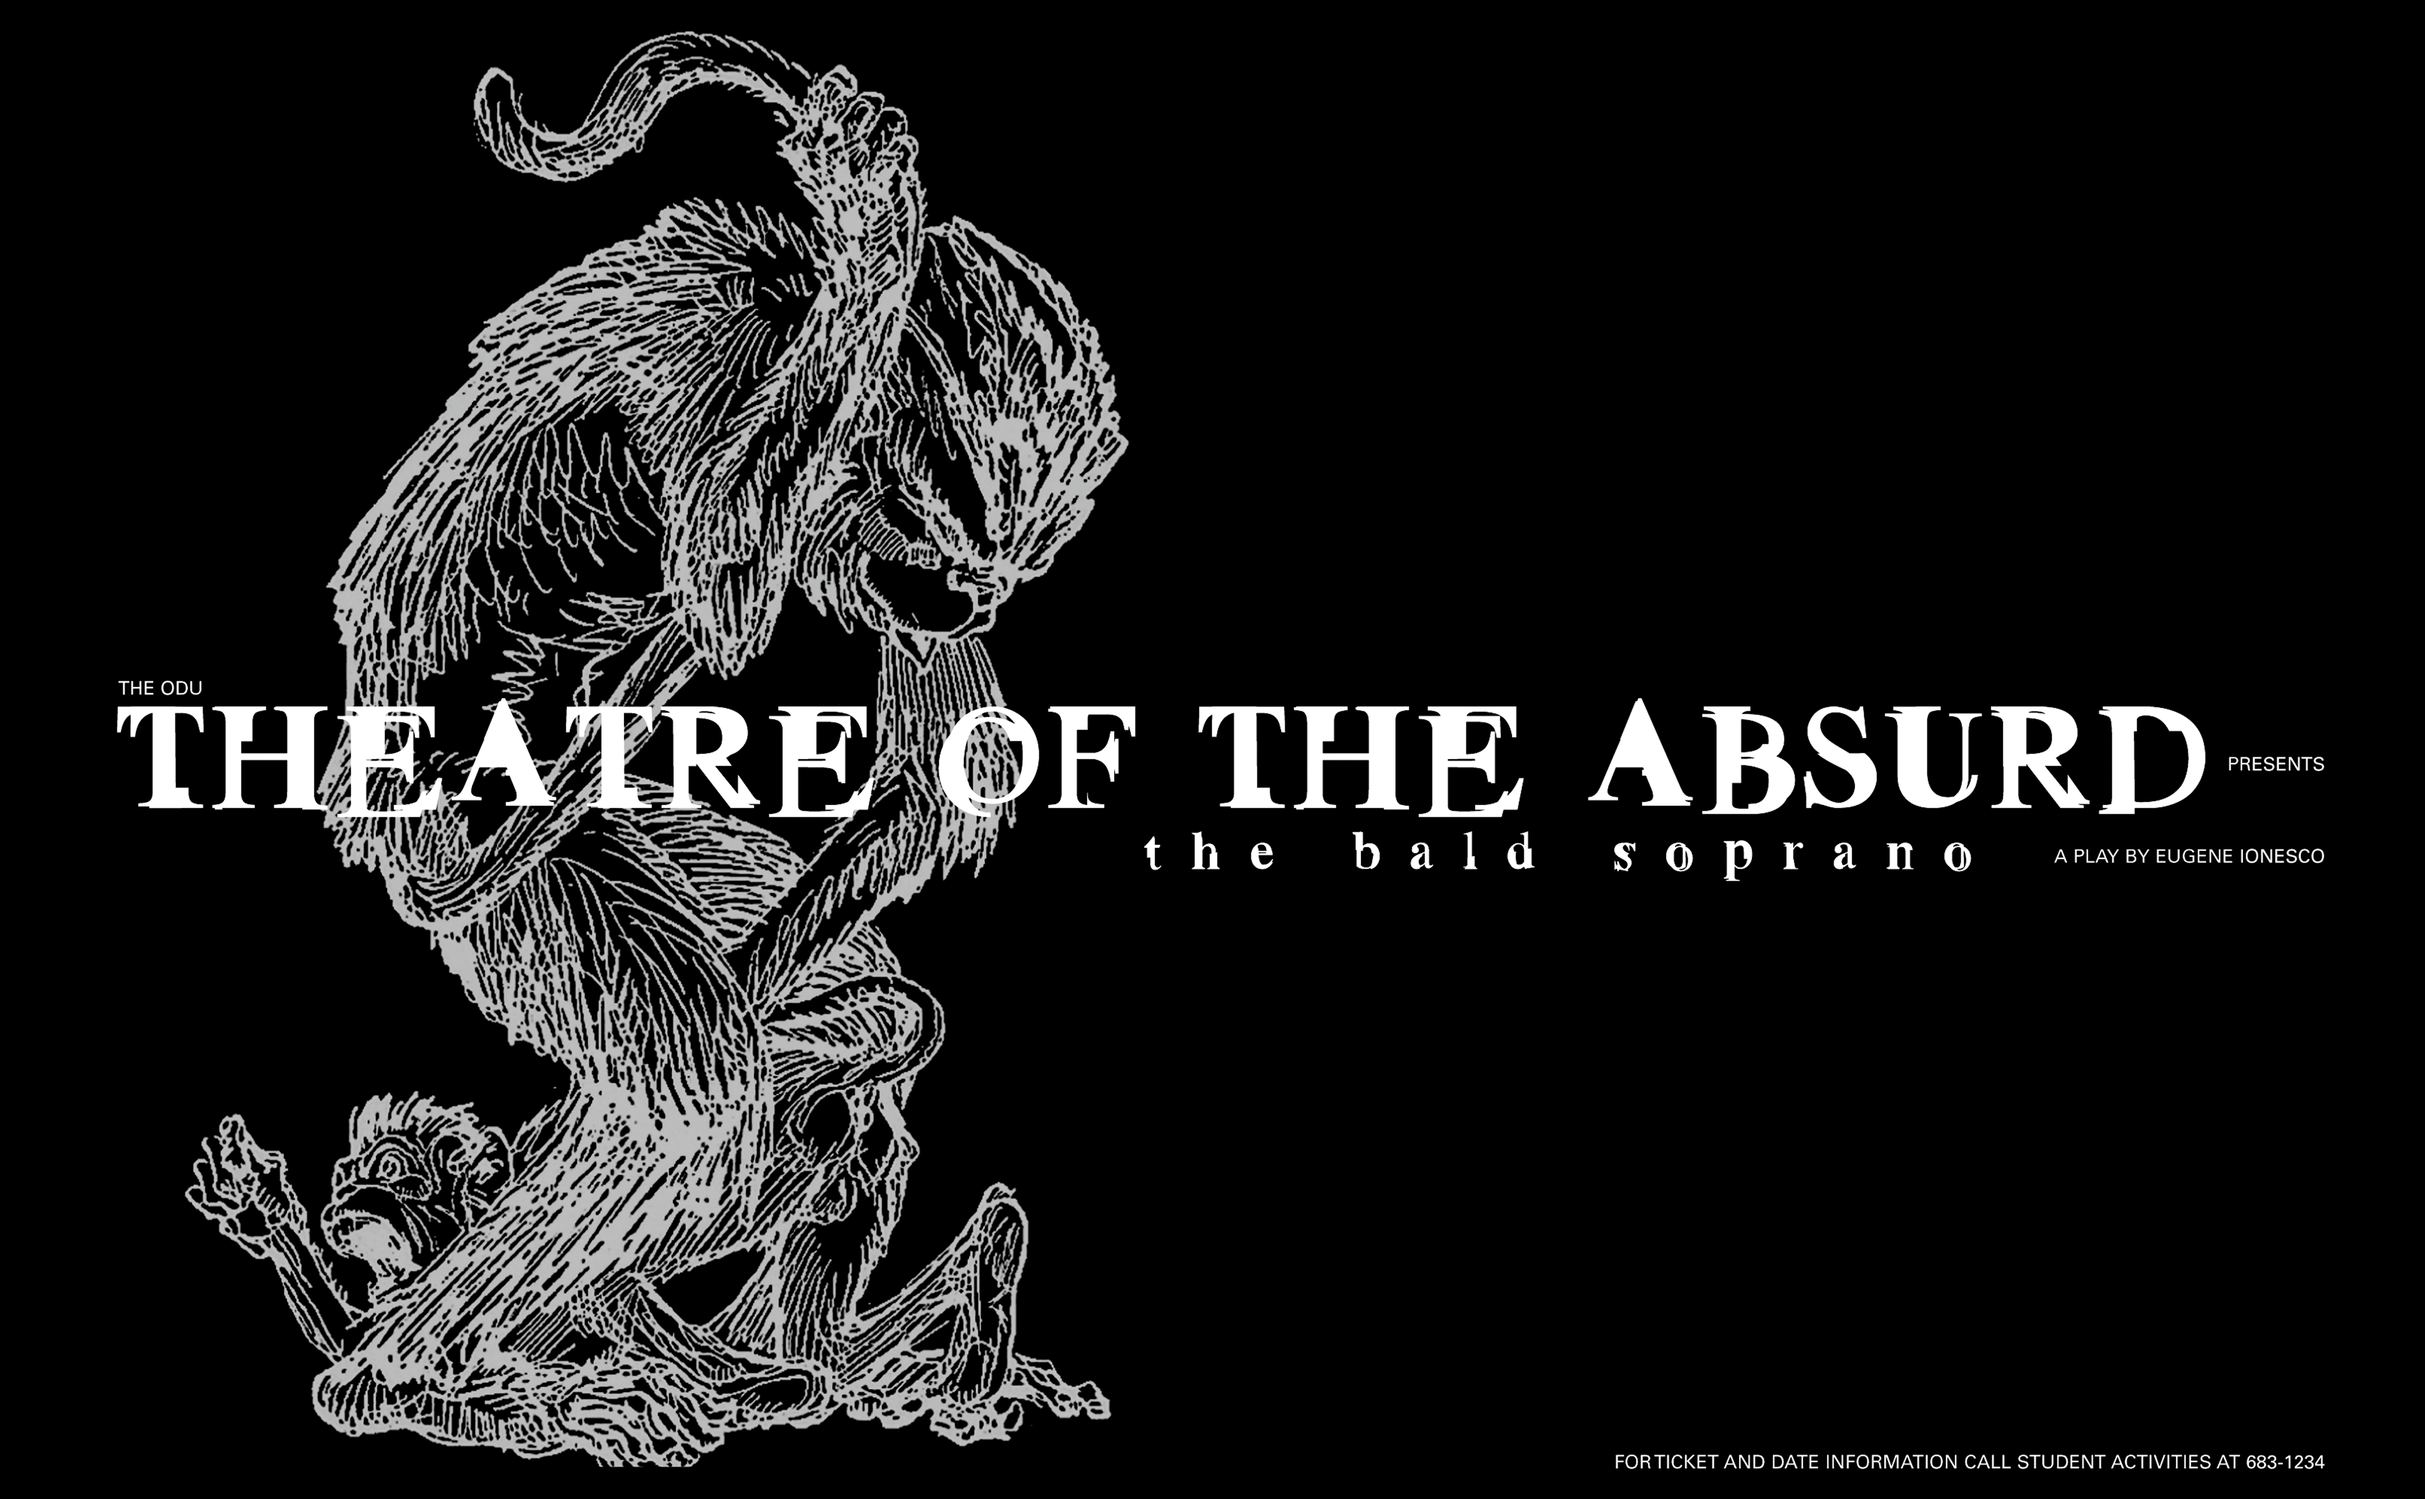
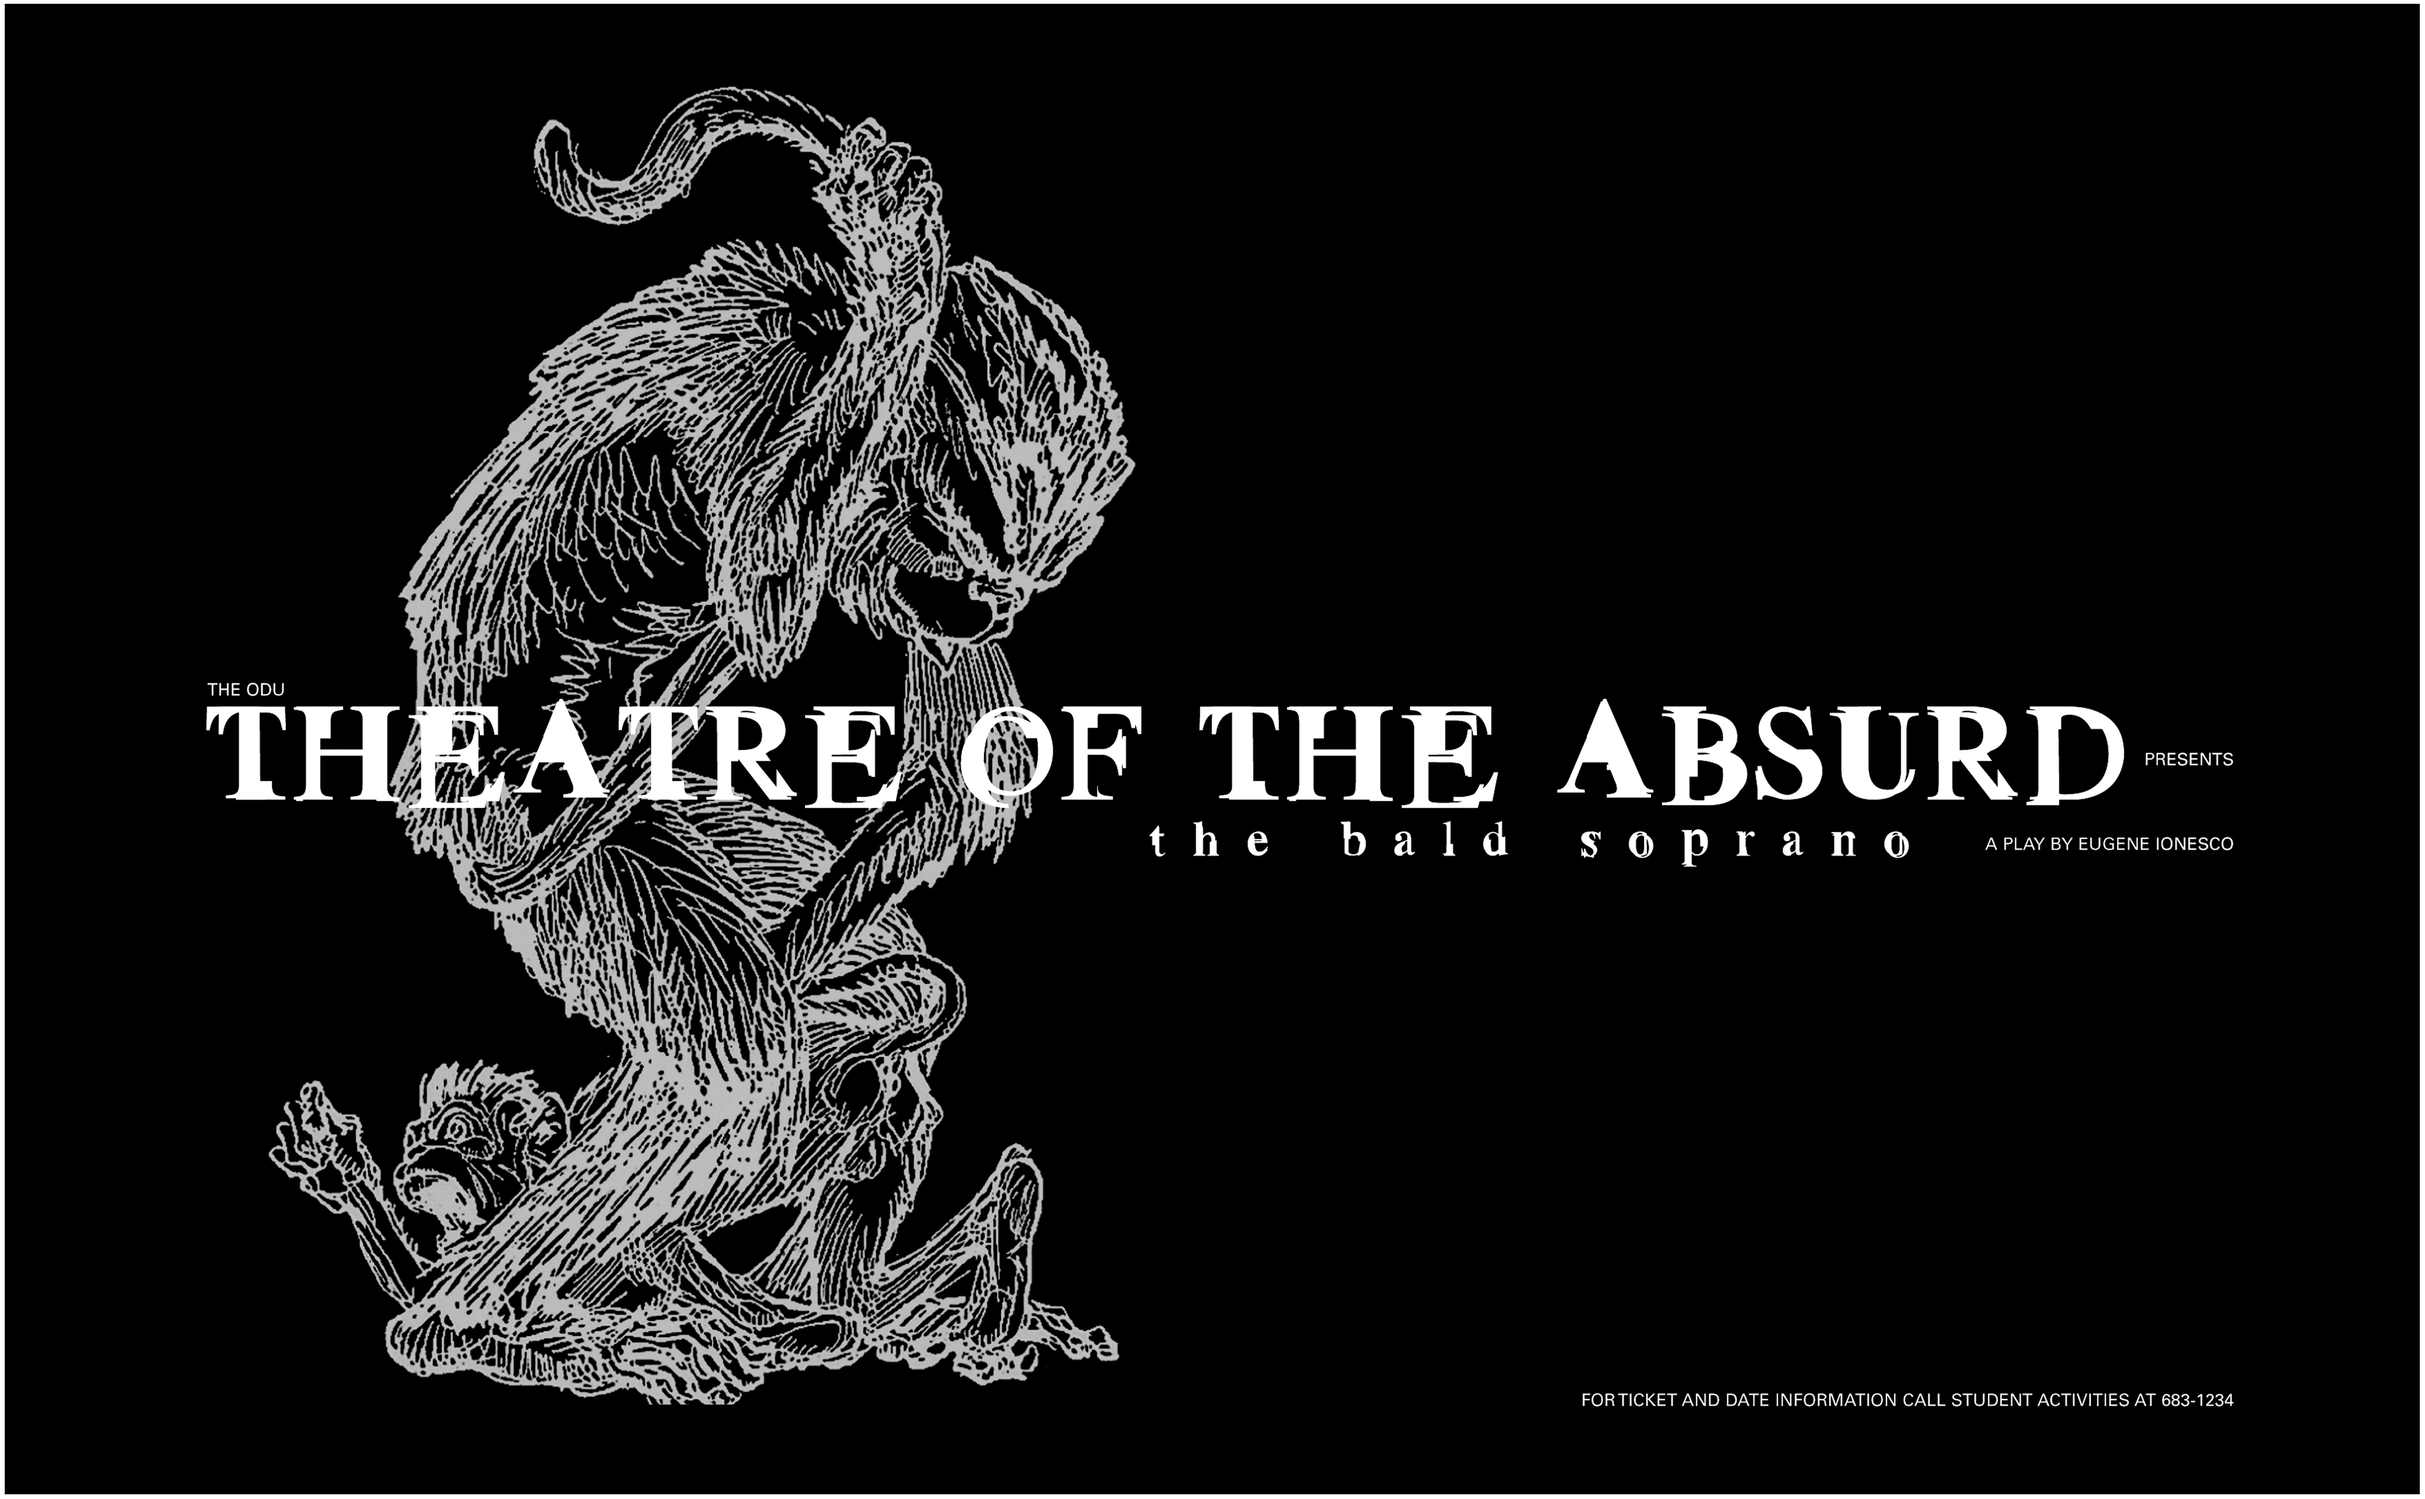
Update Images

diff --git a/index.html b/index.html
@@ -7,50 +7,255 @@
 <!-- The above 3 meta tags *must* come first in the head; any other head content must come *after* these tags -->
 <title>Holden Hardcastle</title>
 
+<script>!function(a,b,c,d,e){function g(a,c,d,e){var f=b.getElementsByTagName("script")[0];a.src=e,a.id=c,a.setAttribute("class",d),f.parentNode.insertBefore(a,f)}a.Mobify={points:[+new Date]};var f=/((; )|#|&|^)mobify=(d)/.exec(location.hash+"; "+b.cookie);if(f&&f[3]){if(!+f[3])return}else if(!c())return;b.write('<plaintext style="display:none">'),setTimeout(function(){var c=a.Mobify=a.Mobify||{};c.capturing=!0;var f=b.createElement("script"),h="mobify",i=function(){var c=new Date;c.setTime(c.getTime()+3e5),b.cookie="mobify=0; expires="+c.toGMTString()+"; path=/",a.location=a.location.href};f.onload=function(){if(e)if("string"==typeof e){var c=b.createElement("script");c.onerror=i,g(c,"main-executable",h,mainUrl)}else a.Mobify.mainExecutable=e.toString(),e()},f.onerror=i,g(f,"mobify-js",h,d)})}(window,document,function(){var a=/webkit|msies10|(firefox)[/s](d+)|(opera)[sS]*version[/s](d+)|3ds/i.exec(navigator.userAgent);return a?a[1]&&+a[2]<4?!1:a[3]&&+a[4]<11?!1:!0:!1},
+
+// path to mobify.js
+"//cdn.mobify.com/mobifyjs/build/mobify-2.0.1.min.js",
+
+// calls to APIs go here
+function() {
+  var capturing = window.Mobify && window.Mobify.capturing || false;
+
+  if (capturing) {
+    Mobify.Capture.init(function(capture){
+      var capturedDoc = capture.capturedDoc;
+
+      var images = capturedDoc.querySelectorAll("img, picture");
+      Mobify.ResizeImages.resize(images);
+
+      // Render source DOM to document
+      capture.renderCapturedDoc();
+    });
+  }
+});
+</script>
+
 <!-- Bootstrap -->
 <link rel="stylesheet" type="text/css" href="bootstrap/dist/css/bootstrap.min.css">
+<link rel="stylesheet" href="css/glyphicons-social.css">
 <link rel="stylesheet" type="text/css" href="css/golden-ratio.css">
+
 <!-- HTML5 shim and Respond.js for IE8 support of HTML5 elements and media queries -->
 <!-- WARNING: Respond.js doesn't work if you view the page via file:// -->
 <!--[if lt IE 9]>
       <script src="https://oss.maxcdn.com/html5shiv/3.7.2/html5shiv.min.js"></script>
       <script src="https://oss.maxcdn.com/respond/1.4.2/respond.min.js"></script>
     <![endif]-->
+    
 </head>
 <body>
+<div class="jumbotron" id="holden-hardcastle">
+	<div class="container">
+    	<div class="row">
+        	<div class="col-md-12">
+            	<h1>Holden Hardcastle (1.61803.3.5)</h1>
+    			<p>Aspire to create inspired, beautiful and fun enjoyable experiences.</p>
+        		<p>Creating inspired experiences is a goal achieved through the hard work of teams and individuals who aspire to be the best, regardless of department or industry.</p>
+	           	<p>During my professional career I have worked with content teams at Apple, Amazon, Sony, Barnes & Noble, HBO and Lucasfilm; collaborated with authors, editors and artists to create best selling ebooks; led teams on community and brochure site redesigns, created mock ups and other assets for on-line properties; worked with outside vendors to develop systems and workflows for on-line content distribution; set standards for best-in-class DVDs and downloadable content; and have taken lead roles on high profile campaigns</p>
+                <!--h4>Contact Me</h4>
+                <form role="form">
+                <div class="form-group">
+                <input type="email" class="form-control" id="exampleInputEmail1" placeholder="Enter your email address">
+                </div>
+                <div class="form-group">
+                <input type="password" class="form-control" id="exampleInputPassword1" placeholder="Type Your Password">
+                </div>
+                <button type="submit" class="btn btn-default">Submit</button>
+                </form-->
+    		</div>
+        </div>
+    </div>
+</div>
 <div class="container">
-  <h1>Holden Hardcastle (1.61803 + Bootstrap v3.3.5)</h1>
-  <div class="row">
-    <div class="col-md-12"><img src="images/5120.png" class="img-responsive"></div>
-  </div>
-  <div class="row">&nbsp;</div>
-  <div class="row">
-    <div class="col-md-7"><img src="images/5120.png" class="img-responsive"></div>
-    <div class="col-md-5">5</div>
-  </div>
-  <div class="row">&nbsp;</div>
-  <div class="row">
-    <div class="col-md-5"><img src="images/5120.png" class="img-responsive"></div>
-    <div class="col-md-7">7</div>
-  </div>
-  <div class="row">&nbsp;</div>
-  <div class="row">
-    <div class="col-md-3"><img src="images/5120.png" class="img-responsive"></div>
-    <div class="col-md-9">9</div>
-  </div>
-  <div class="row">&nbsp;</div>
-<div class="row">
-    <div class="col-md-2"><img src="images/5120.png" class="img-responsive"></div>
-    <div class="col-md-10">10</div>
-  </div>
-  <div class="row">&nbsp;</div>  
-  <div class="row">
-    <div class="col-md-1"><img src="images/5120.png" class="img-responsive"></div>
-    <div class="col-md-11">11</div>
-  </div>
-  <div class="row">&nbsp;</div>  
+	<div class="row">
+  		<div class="col-md-12">
+    		<img src="images/aee-5120.jpg" class="img-responsive">
+  			<h2 id="what">Advanced Energy Economy</h2>
+  		</div>
+	</div>
 </div>
 
+<div class="container">
+	<div class="row">
+  		<div class="col-md-12">
+    		<img src="images/5120.png" class="img-responsive">
+  			<h2 id="what">Gap Old Navy</h2>
+  		</div>
+	</div>
+</div>
+
+<div class="container">
+	<div class="row">
+  		<div class="col-md-12">
+    		<img src="images/dictionary-5120.jpg" class="img-responsive">
+  			<h2 id="what"></h2>
+  		</div>
+	</div>
+</div>
+
+<!-- hurry kiki hurry -->
+
+<div class="container">
+	<div class="row">
+  		<div class="col-md-12">
+    		<img src="images/hurry-kiki-hurry.jpg" class="img-responsive">
+  			<h2 id="what"></h2>
+  		</div>
+	</div>
+</div>
+
+
+<!-- steven irving photgraphy -->
+
+<div class="container">
+	<div class="row">
+  		<div class="col-md-12">
+    		<img src="images/steven-irving-photography.jpg" class="img-responsive">
+  			<h2 id="what"></h2>
+  		</div>
+	</div>
+</div>
+
+<!-- cbs marketwatch / survivor check -->
+
+<div class="container">
+	<div class="row">
+  		<div class="col-md-12">
+    		<img src="images/cbs-mktw-check.jpg" class="img-responsive">
+  			<h2 id="what"></h2>
+  		</div>
+	</div>
+</div>
+
+<!-- cbs marketwatch / know what you're getting into -->
+
+<div class="container">
+	<div class="row">
+  		<div class="col-md-12">
+    		<img src="images/cbs-mktw-shark.jpg" class="img-responsive">
+  			<h2 id="what"></h2>
+  		</div>
+	</div>
+</div>
+
+<!-- cbs marketwatch / behind the numbers -->
+
+<div class="container">
+	<div class="row">
+  		<div class="col-md-12">
+    		<img src="images/cbs-mktw-behind-the-numbers.jpg" class="img-responsive">
+  			<h2 id="what"></h2>
+  		</div>
+	</div>
+</div>
+
+
+<!-- oodu / virginia air and space -->
+
+<div class="container">
+	<div class="row">
+  		<div class="col-md-12">
+    		<img src="images/virginia-air-and-space.jpg" class="img-responsive">
+  			<h2 id="what"></h2>
+  		</div>
+	</div>
+</div>
+
+<!-- odu / theatre of the absurd -->
+
+<div class="container">
+	<div class="row">
+  		<div class="col-md-12">
+    		<img src="images/theatre-of-the-absurd-bald-soprano.jpg" class="img-responsive">
+  		</div>
+	</div>
+</div>
+
+
+<div class="container">
+	<div class="row text-muted">
+  		<div class="col-md-3">
+  			<h3>About H2</h3>
+            <p>During my professional career I have worked with content teams at Apple, Amazon, Sony, Barnes & Noble, HBO and Lucasfilm; collaborated with authors, editors and artists to create best selling ebooks; led teams on community and brochure site redesigns, created mock ups and other assets for on-line properties; worked with outside vendors to develop systems and workflows for on-line content distribution; set standards for best-in-class DVDs and downloadable content; and have taken lead roles on high profile campaigns.</p>
+  			<h3>Contact, Downloads & Other Sites</h3>
+            <p><span class="social social-e-mail"></span>h0ld3n@gmail.com<br>
+            <span class="social social-behance"></span>behance<br>
+            <span class="social social-dribbble"></span>dribble<br>
+            <span class="social social-facebook"></span>facebook<br>
+            <span class="social social-github"></span>github<br>
+            <span class="social social-google-plus"></span>google+<br>
+            <span class="social social-instagram"></span>instagram<br>
+            <span class="social social-linked-in"></span>linkedin<br>
+            <span class="social social-pinterest"></span>pinterest<br>
+            <span class="social social-tumblr"></span>tumblr<br>
+            <span class="social social-twitter"></span>twitter<br>
+            resume<br>
+            cargo collective<br>
+			dunked (beta)</p>
+        </div>
+        <div class="col-md-3">
+  			<h3>Education</h3>
+            <h4>Griffith University</h4>
+            <p>Master of Arts – Media Production with&nbsp;Honours</p>
+            <h4>Old Dominion University</h4>
+            <p>Bachelor of Fine Arts – Graphic Design Cum Laude</p>
+            
+            <h3>Knowledge</h3>
+            <p>Adobe Photoshop, ImageReady, Illustrator, AfterEffects, InDesign, GoLive, Flash, Quark, Dreamweaver and other HTML editors, HTML/CSS/XHTML/PHP and JavaScript, Avid, Final Cut Pro and All Related Software</p>
+            <h3>Awards</h3>
+            <h4>PubWest Book Design Awards&nbsp;2012</h4>
+            <p>Enhanced e-Book, Silver Award<br>
+            Worse Case Scenario Jr. Interactive Adventure: Everest: You Decide How to&nbsp;Survive</p>
+            <h4>41st Annual Bookbuilders West Book Show 2012</h4>
+            <p>Certificate of Excellence<br>
+            Worst-Case Scenario Ultimate Adventure: Everest</p>
+            <h4>Publishing Innovation Awards&nbsp;2012</h4>
+            <p>Quality, Excellence, Design (QED)<br>
+            Count, Dagmar!<br>
+            Top Pot Hand-Forged Doughnuts</p>
+            <h4>The 48 Hour Film Project 2009</h4>
+            <p>Best Acting Ensemble</p>
+            <h4>Griffith Film School 2006</h4>
+            <p>Award for Individual Excellence and Highly Commended Editing</p>   
+  		</div>
+        <div class="col-md-6">
+  			<h3>Experience</h3>
+            <h4>Advanced Energy Economy</h4> 
+            <p>(07.2013 - Present)<br>
+            Short description...</p>
+            <h4>Gap Inc. (freelance)</h4>
+            <p>(06.2013 - 07.2013)<br>
+            Short description...</p>
+            <h4>Chronicle Books</h4> 
+            <p>(12.2010 - 02.2013)<br>
+            Collaborated with authors, editors, designers, and outside vendors to create award-winning ebooks and mobile applications, for various tablets and ebook readers. Formulated best practices and strategies for the creation and distribution of ebooks to various on-line retailers.</p>
+            <h4>TRX - Fitness Anywhere</h4>
+            <p>(02.2007 – 07.2010)<br>
+            Worked with various teams to develop best practices for content creation and distribution, user interaction and experience for online communities, various landing pages and large scale campaigns with the assistance of other designers and marketing managers.</p>
+            <h4>REO Company</h4> 
+            <p>(12.2002 – 01.2005)<br>
+			Worked with photographers, printers, and other vendors to design a consistent online and marketing presence.</p>
+            <h4>US Race Series (freelance)</h4> 
+            <p>(10.2002 – 01.2005)<br>
+            Designed logos and marketing materials for national campaigns.</p>
+            <h4>Golden Gate Tennis and Swim Club (freelance)</h4> 
+            <p>(08.2002 – 10.2003)<br>
+            Designed the athletic club's monthly newsletter.</p>
+            <h4>Muscular Dystrophy Association (freelance)</h4> 
+            <p>(09.2001 – 12.2002)<br>
+            Collaborated with marketing directors to create collateral for local fund-raising events.</p>
+            <h4>Steven Irving Photography (freelance)</h4> 
+            <p>(09.2001 – 12.2002)<br>
+            Designed and developed website for the then San Francisco based photographer.</p>
+            <h4>California Academy of Science (freelance)</h4> 
+            <p>(08.2001 – 12.2001)<br>
+			Designed and coded website for the Arthropods of Madagascar Research Project.</p>
+            <h4>CBS MarketWatch</h4> 
+            <p>(10.1999 – 05.2001)<br>
+            Collaborated with news, and marketing teams to create online and printed materials.</p>
+  		</div>
+	</div>
+</div>
 <!-- jQuery (necessary for Bootstrap's JavaScript plugins) --> 
 <script src="https://ajax.googleapis.com/ajax/libs/jquery/1.11.3/jquery.min.js"></script> 
 <!-- Include all compiled plugins (below), or include individual files as needed --> 
